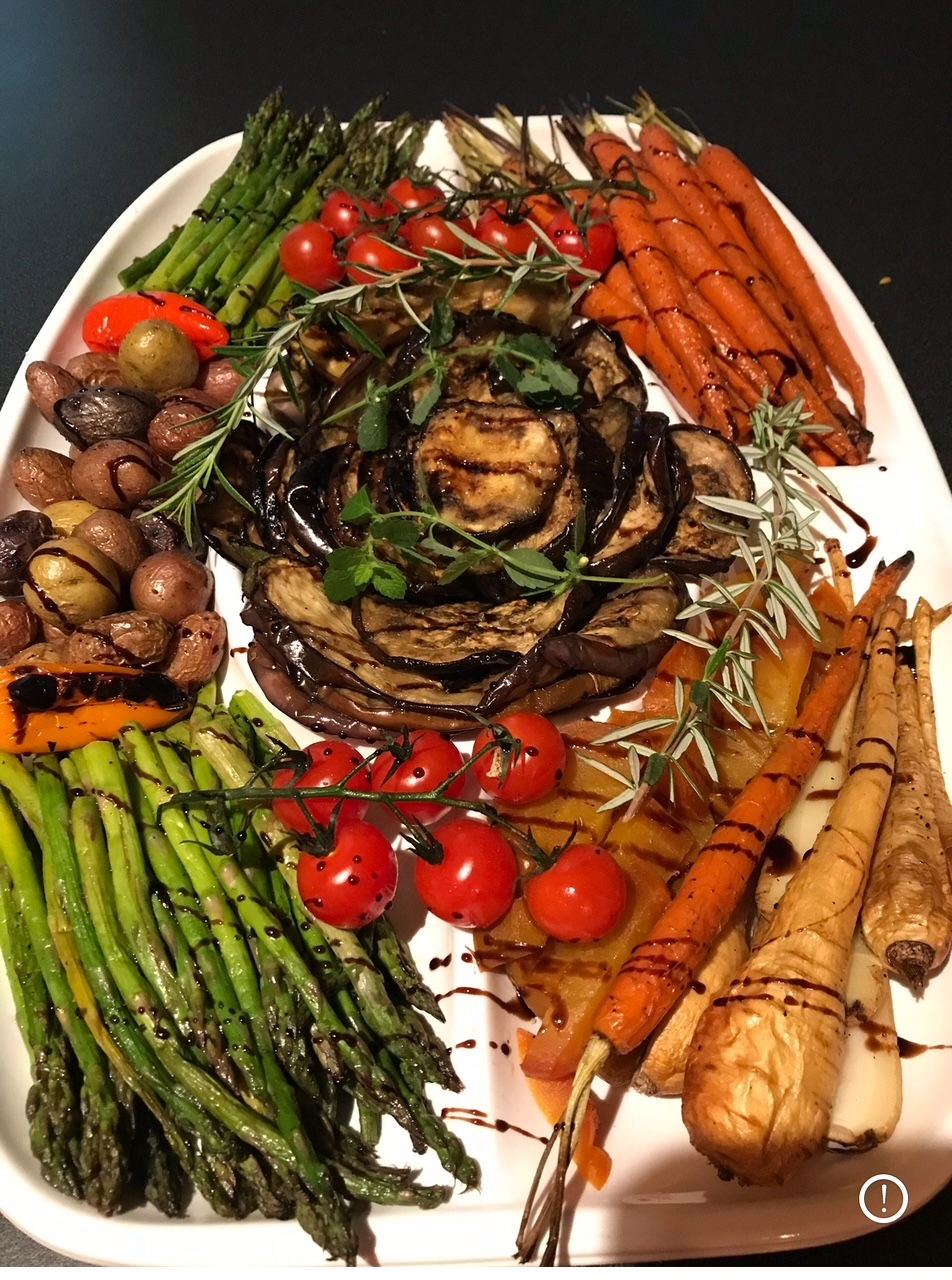
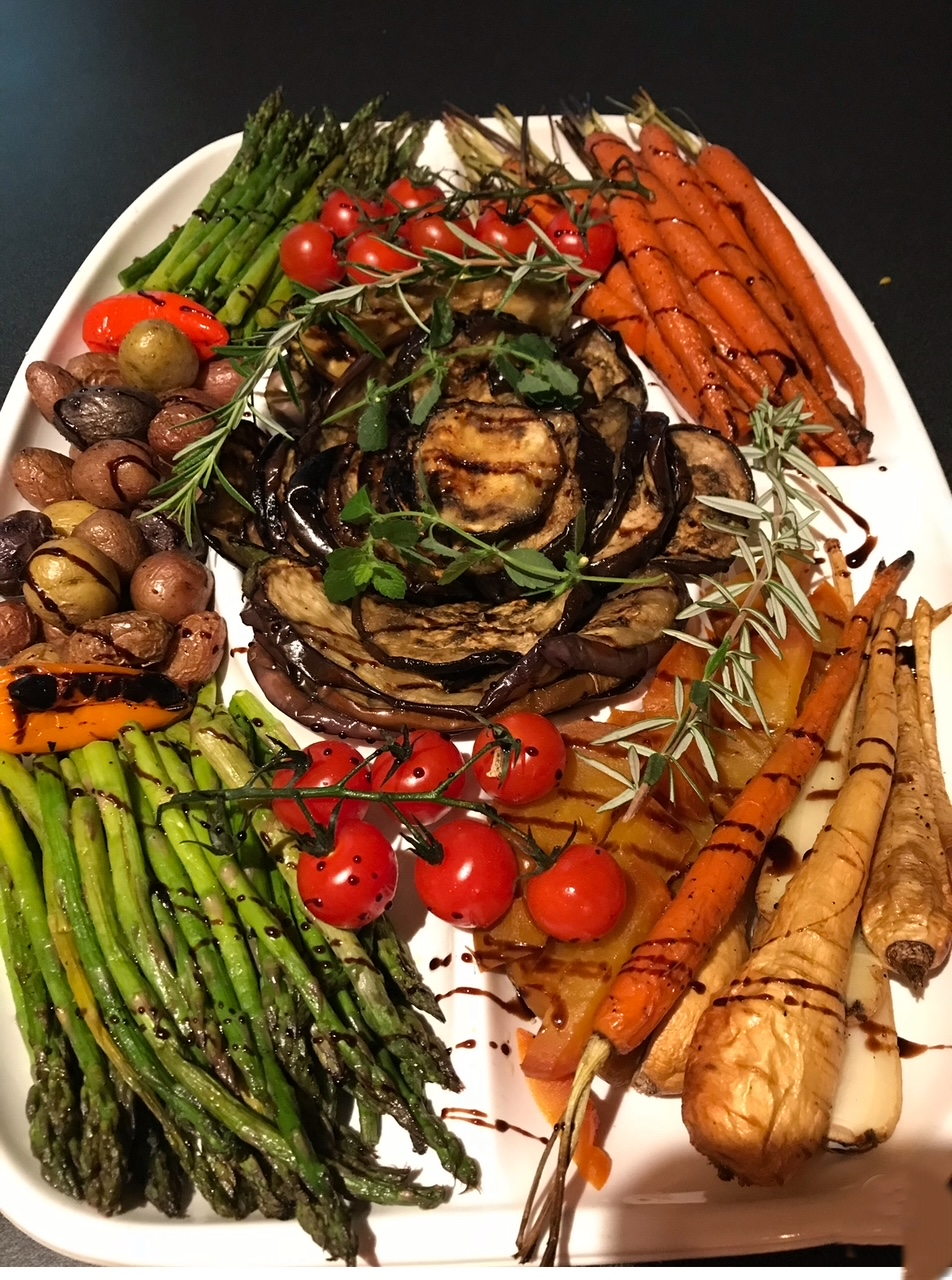
small text updates +theme3 photo edit

Changed region(s): [[0.8834, 0.9062, 1.0, 1.0]]

diff --git a/app/designs/Theme1Home.tsx b/app/designs/Theme1Home.tsx
@@ -101,7 +101,7 @@ export default function Theme1Home() {
                   <span className="h-2 w-2 rounded-full bg-blue-500" /> Launch-ready
                 </span>
                 <span className="inline-flex items-center gap-2">
-                  <span className="h-2 w-2 rounded-full bg-indigo-500" /> Easy edits
+                  <span className="h-2 w-2 rounded-full bg-indigo-500" /> Instant edits
                 </span>
                 <span className="inline-flex items-center gap-2">
                   <span className="h-2 w-2 rounded-full bg-sky-500" /> Performance minded
@@ -156,13 +156,13 @@ export default function Theme1Home() {
                   className="inline-flex items-center justify-center rounded-full bg-white px-5 py-3 text-sm font-semibold text-slate-900 transition-all duration-200 hover:bg-white/90 hover:scale-105 hover:shadow-lg hover:-translate-y-0.5"
                   href="mailto:conner.mccarthy.97@gmail.com"
                 >
-                  Email | conner.mccarthy.97@gmail.com
+                  Email - conner.mccarthy.97@gmail.com
                 </a>
                 <a
                   className="inline-flex items-center justify-center rounded-full border border-white/20 bg-white/5 px-5 py-3 text-sm font-semibold text-white transition-all duration-200 hover:bg-white/10 hover:scale-105 hover:shadow-lg hover:-translate-y-0.5 hover:border-white/30"
                   href="tel:+18283295839"
                 >
-                  Call | (828) 329-5839
+                  Call - (828) 329-5839
                 </a>
               </div>
             </div>
@@ -187,13 +187,13 @@ export default function Theme1Home() {
                 <li className="flex items-start gap-2">
                   <span className="mt-1 h-1.5 w-1.5 flex-shrink-0 rounded-full bg-white/40" />
                   <span>
-                    <span className="font-semibold text-white">Design + copy</span> — I draft a clean layout and tighten the message so visitors understand you fast.
+                    <span className="font-semibold text-white">Design + copy</span> — I draft a clean layout so visitors understand you fast.
                   </span>
                 </li>
                 <li className="flex items-start gap-2">
                   <span className="mt-1 h-1.5 w-1.5 flex-shrink-0 rounded-full bg-white/40" />
                   <span>
-                    <span className="font-semibold text-white">Build + launch</span> — We review, make final edits, connect domain/email, and go live with confidence.
+                    <span className="font-semibold text-white">Build + launch</span> — We review, make final edits, connect domain/email, and go live.
                   </span>
                 </li>
               </ul>

diff --git a/app/designs/Theme3Home.tsx b/app/designs/Theme3Home.tsx
@@ -44,7 +44,7 @@ export default function Theme3Home() {
         <div className="flex flex-col items-center gap-6 md:flex-row md:items-start">
           <Image
             src="/pam-mccarthy-headshot.png"
-            alt="Pam McCarthy"
+            alt="Pamela McCarthy"
             width={160}
             height={160}
             className="h-32 w-32 rounded-full object-cover ring-4 ring-amber-200 md:h-40 md:w-40"
@@ -186,7 +186,7 @@ export default function Theme3Home() {
       {/* Footer */}
       <footer className="border-t border-stone-200 bg-white">
         <div className="mx-auto flex max-w-6xl flex-col gap-2 px-4 py-8 text-sm text-stone-600 md:flex-row md:items-center md:justify-between">
-          <div>© {new Date().getFullYear()} Pam McCarthy Catering</div>
+          <div>© {new Date().getFullYear()} Pamela McCarthy Catering</div>
           <div className="text-stone-500">Serving exceptional events since 2010</div>
         </div>
       </footer>
